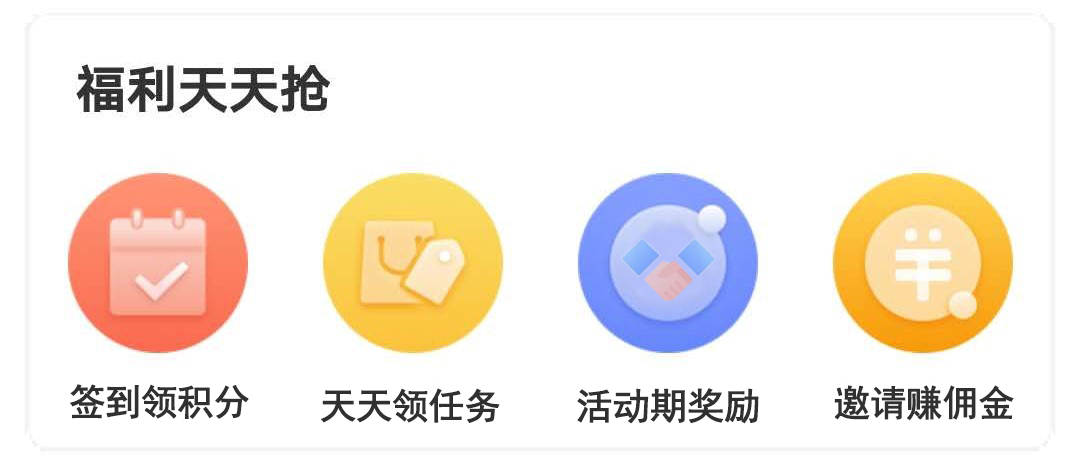
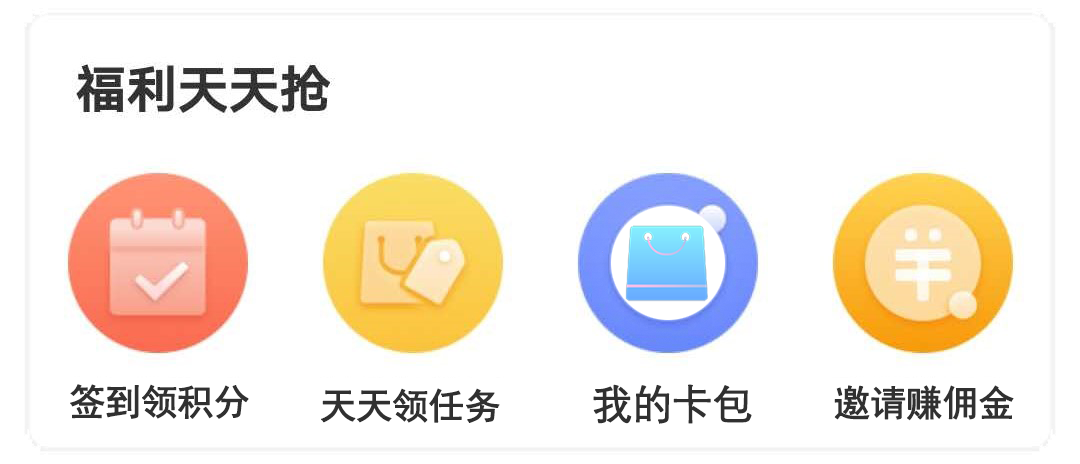
sss

Changed region(s): [[0.55, 0.4224, 0.6722, 0.694], [0.5194, 0.8147, 0.7028, 0.9353]]

diff --git a/src/main/webapp/app/video/gameList.html b/src/main/webapp/app/video/gameList.html
@@ -51,28 +51,35 @@
         <span class="gameName">小红帽冒险记</span>
         <span class="gameName gameInfo">快和愤怒的小红帽一起闯关冒险吧！</span>
         <div class="clear"></div>
-        <div class="btn" style="position:absolute;margin-top:-55px;right:5px;" onclick="window.location.href='game/xiaohm/index.html'">开始游戏</div>
+        <div class="btn" style="position:absolute;margin-top:-55px;right:5px;" onclick="window.location.href='game/xiaohm/index.html'">前往冒险</div>
+    </div>
+    <div class="gameEl">
+        <img src="game/renwuka.png"/>
+        <span class="gameName">争抢任务卡</span>
+        <span class="gameName gameInfo">争抢任务卡，每天领现金</span>
+        <div class="clear"></div>
+        <div class="btn" style="position:absolute;margin-top:-55px;right:5px;" onclick="window.location.href='activity.html'">领取任务</div>
     </div>
     <div class="gameEl">
         <img src="game/yibns.png"/>
         <span class="gameName">全都要保护</span>
         <span class="gameName gameInfo">请保护你的所有小火柴人！</span>
         <div class="clear"></div>
-        <div class="btn" style="position:absolute;margin-top:-55px;right:5px;" onclick="window.location.href='game/yigbns/index.html'">开始游戏</div>
+        <div class="btn" style="position:absolute;margin-top:-55px;right:5px;" onclick="window.location.href='game/yigbns/index.html'">立即挑战</div>
     </div>
     <div class="gameEl">
         <img src="game/game-fjdz.png"/>
         <span class="gameName">飞机大战</span>
         <span class="gameName gameInfo">飞机大战，开启太空大战之旅</span>
         <div class="clear"></div>
-        <div class="btn" style="position:absolute;margin-top:-55px;right:5px;" onclick="window.location.href='game/feijidaz/index.html'">开始游戏</div>
+        <div class="btn" style="position:absolute;margin-top:-55px;right:5px;" onclick="window.location.href='game/feijidaz/index.html'">体验一把</div>
     </div>
     <div class="gameEl">
         <img src="game/game-bjsc.png"/>
         <span class="gameName">北京赛车</span>
         <span class="gameName gameInfo">飞机大战，开启太空大战之旅</span>
         <div class="clear"></div>
-        <div class="btn" style="position:absolute;margin-top:-55px;right:5px;" onclick="window.location.href='game/beijsc/index.html'">开始游戏</div>
+        <div class="btn" style="position:absolute;margin-top:-55px;right:5px;" onclick="window.location.href='game/beijsc/index.html'">前往参观</div>
     </div>
     <div class="gameEl">
         <img src="game/game-jblogo.png"/>

diff --git a/src/main/webapp/app/video/index.html b/src/main/webapp/app/video/index.html
@@ -6,6 +6,18 @@
      <meta name="viewport" content="maximum-scale=1.0,minimum-scale=1.0,user-scalable=no,width=device-width,initial-scale=1.0"/>
      <link rel="stylesheet" type="text/css" href="css/index.css"/>
      <link rel="stylesheet" type="text/css" href="css/public.css"/>
+     <meta name="application-name" content="享GO影视">
+     <!-- 自定义图标 -->
+     <link rel="apple-touch-icon-precomposed" sizes="120x120" href="img/bitbug_favicon.ico">
+
+
+   <!-- 网站开启对 web app 程序的支持 具体表现为去除浏览器地址栏和底部导航栏 -->
+   2    <meta name="apple-mobile-web-app-capable" content="yes">
+   3    <!-- 用来定义顶部状态栏的形式默认是default为白色 black为黑色 black-translucent为灰色半透明（会占据屏幕的约20px，不同的设备可能会有差异）-->
+   4    <!-- 在定义了apple-mobile-web-app-capable的前提下，设置状态栏的属性值apple-mobile-web-app-status-bar-style才有效； -->
+   5    <meta name="apple-mobile-web-app-status-bar-style" content="default">
+
+
      <script src="js/jquery-3.4.1.js"></script>
      <script src="js/vue.js"></script>
      <script src="js/jq-alert.js"></script>
@@ -150,8 +162,16 @@
 </div>
 
 <div style="position:fixed;z-index:10;width:100%;bottom:-5px;display: none;" id="hintAdd">
-    <div style="width:50px;height:35px;position: absolute;right:5%;" onclick="$('#hintAdd').hide();"></div>
-    <img src="img/addzp0.png" style="width:90%;margin-left:5%;"/>
+    <div style="position: absolute;
+    color: #fff;
+    margin-left:24%;
+    font-size:0.7rem;
+    opacity:0.8;
+    margin-top:5px;" onclick="isAddZP()">
+        已添加，不再提醒！
+    </div>
+    <div style="width:50px;height:35px;position: absolute;right:20%;" onclick="$('#hintAdd').hide();"></div>
+    <img src="img/addzp0.png" style="width:60%;margin-left:20%;"/>
 </div>
 </body>
 
@@ -177,6 +197,11 @@
 //         // videoEle.pause();
 //     }
 // }
+//已添加不再提醒
+function isAddZP(){
+    localStorage.setItem("iosaddzp","1");
+    $('#hintAdd').hide();
+}
 $(function(){
     $(".queryVideo").click(function(){
         $(".queryVideo").removeClass("active");
@@ -195,7 +220,7 @@ $(function(){
 
     //
     var isiOS = !!u.match(/\(i[^;]+;( U;)? CPU.+Mac OS X/); //ios终端
-    if(isiOS && isSafari()){
+    if(isiOS && isSafari() && !localStorage.getItem("iosaddzp")){
         $("#hintAdd").show();
     }
 })

diff --git a/src/main/webapp/app/video/user/setUser.html b/src/main/webapp/app/video/user/setUser.html
@@ -32,7 +32,7 @@
       <span class="userSetMsg" onclick="$('#cf').click()">修改头像</span>
       <img src="../img/to-right.png" style="right:5%;"/>
     </div>
-    <div class="operationEl" @click="setUserName">
+    <div class="operationEl" @click="setUserName(userInfo.nickname)">
       <img src="../img/edit-ic.png"/>
       <span>修改昵称</span>
       <span class="userSetMsg"  v-cloak>{{userInfo.nickname}}</span>
@@ -87,7 +87,7 @@
          <a  href="../community.html" class="text">享社区</a>
      </li>
      <li class="list_li cart">
-         <a  href="../cardBag/bagOwn.html" class="text">享玩游戏</a>
+         <a  href="../gameList.html" class="text">享玩游戏</a>
      </li>
      <li class="list_li profile">
          <a  href="../myCenter.html" class="text">我的</a>
@@ -113,7 +113,7 @@ new Vue({
     },
     methods:{
         setUserName(name){
-          window.location.href='serUserName.html?nickname='+encodeURI(name);
+          window.location.href='serUserName.html?nickname='+name;
         },
         //查询用户信息
         getMyUserInfo(){

diff --git a/src/main/webapp/app/video/activity.html b/src/main/webapp/app/video/activity.html
@@ -96,7 +96,7 @@
            <a  href="community.html" class="text">享社区</a>
        </li>
        <li class="list_li cart">
-           <a  href="cardBag/bagOwn.html" class="text">享玩游戏</a>
+           <a  href="gameList.html" class="text">享玩游戏</a>
        </li>
        <li class="list_li profile">
            <a  href="myCenter.html" class="text">我的</a>
@@ -182,11 +182,13 @@ new Vue({
             this.qiand();
         }else if(tp==2){
             jqalert({
-                prompt:'请在页面下方选择您想要领取的任务卡！',
+                prompt:'请关注任务卡开启时间及时领去！',
                 yestext:'好 的',
                 yesfn:function () {
                 }
             });
+        }else if(tp==3){
+            window.location.href='cardBag/bagOwn.html';
         }else{
             window.location.href='invite.html';
         }

diff --git a/src/main/webapp/app/video/user/moneyInfo.html b/src/main/webapp/app/video/user/moneyInfo.html
@@ -72,7 +72,7 @@
                         <h2>累计完成任务<b style="color:#81878d;" v-cloak>  {{assets.allorder}} </b style="color:#81878d;"></h2>
                     </div>
                 </a>
-                <a href="../cardBag/bagOwn.html" class="aui-palace-grid b-in">
+                <a href="../gameList.html" class="aui-palace-grid b-in">
                     <div class="aui-palace-grid-icon">
                         <img src="../img/nav-001.png" alt="">
                     </div>
@@ -118,7 +118,7 @@
            <a  href="../community.html" class="text">享社区</a>
        </li>
        <li class="list_li cart">
-           <a  href="../cardBag/bagOwn.html" class="text">享玩游戏</a>
+           <a  href="../gameList.html" class="text">享玩游戏</a>
        </li>
        <li class="list_li profile">
            <a  href="../myCenter.html" class="text">我的</a>

diff --git a/src/main/webapp/app/video/user/serUserName.html b/src/main/webapp/app/video/user/serUserName.html
@@ -49,7 +49,7 @@
          <a  href="../community.html" class="text">享社区</a>
      </li>
      <li class="list_li cart">
-         <a  href="../cardBag/bagOwn.html" class="text">享玩游戏</a>
+         <a  href="../gameList.html" class="text">享玩游戏</a>
      </li>
      <li class="list_li profile">
          <a  href="../myCenter.html" class="text">我的</a>
@@ -74,8 +74,8 @@ new Vue({
     created() {
         var nickname = this.GetQueryString("nickname");
         if(nickname){
-            this.userInfo.nickname = decodeURI(nickname);
-            this.oldName = decodeURI(nickname);
+            this.userInfo.nickname = nickname;
+            this.oldName = nickname;
         }
     },
     methods:{

diff --git a/src/main/webapp/app/video/cardBag/bagComment.html b/src/main/webapp/app/video/cardBag/bagComment.html
@@ -56,7 +56,7 @@
 	           <a  href="../community.html" class="text">享社区</a>
 	       </li>
 	       <li class="list_li cart">
-	           <a  href="../cardBag/bagOwn.html" class="text">享玩游戏</a>
+	           <a  href="../gameList.html" class="text">享玩游戏</a>
 	       </li>
 	       <li class="list_li profile">
 	           <a  href="../myCenter.html" class="text">我的</a>

diff --git a/src/main/webapp/app/video/community.html b/src/main/webapp/app/video/community.html
@@ -112,7 +112,7 @@ z-index: 2;">
            <a  href="community.html" class="text">享社区</a>
        </li>
        <li class="list_li cart">
-           <a  href="cardBag/bagOwn.html" class="text">享玩游戏</a>
+           <a  href="gameList.html" class="text">享玩游戏</a>
        </li>
        <li class="list_li profile">
            <a  href="myCenter.html" class="text">我的</a>

diff --git a/src/main/webapp/app/video/cardBag/bagPay.html b/src/main/webapp/app/video/cardBag/bagPay.html
@@ -146,7 +146,7 @@
            <a  href="../community.html" class="text">享社区</a>
        </li>
        <li class="list_li cart">
-           <a  href="../cardBag/bagOwn.html" class="text">享玩游戏</a>
+           <a  href="../gameList.html" class="text">享玩游戏</a>
        </li>
        <li class="list_li profile">
            <a  href="../myCenter.html" class="text">我的</a>

diff --git a/src/main/webapp/app/video/cardBag/bagPayWait.html b/src/main/webapp/app/video/cardBag/bagPayWait.html
@@ -105,7 +105,7 @@
            <a  href="../community.html" class="text">享社区</a>
        </li>
        <li class="list_li cart">
-           <a  href="../cardBag/bagOwn.html" class="text">享玩游戏</a>
+           <a  href="../gameList.html" class="text">享玩游戏</a>
        </li>
        <li class="list_li profile">
            <a  href="../myCenter.html" class="text">我的</a>

diff --git a/src/main/webapp/app/video/cardBag/bagCheck.html b/src/main/webapp/app/video/cardBag/bagCheck.html
@@ -97,7 +97,7 @@
            <a  href="../community.html" class="text">享社区</a>
        </li>
        <li class="list_li cart">
-           <a  href="../cardBag/bagOwn.html" class="text">享玩游戏</a>
+           <a  href="../gameList.html" class="text">享玩游戏</a>
        </li>
        <li class="list_li profile">
            <a  href="../myCenter.html" class="text">我的</a>

diff --git a/src/main/webapp/app/video/cardBag/bagOwn.html b/src/main/webapp/app/video/cardBag/bagOwn.html
@@ -74,7 +74,7 @@
            <a  href="../community.html" class="text">享社区</a>
        </li>
        <li class="list_li cart">
-           <a  href="../cardBag/bagOwn.html" class="text">享玩游戏</a>
+           <a  href="../gameList.html" class="text">享玩游戏</a>
        </li>
        <li class="list_li profile">
            <a  href="../myCenter.html" class="text">我的</a>
